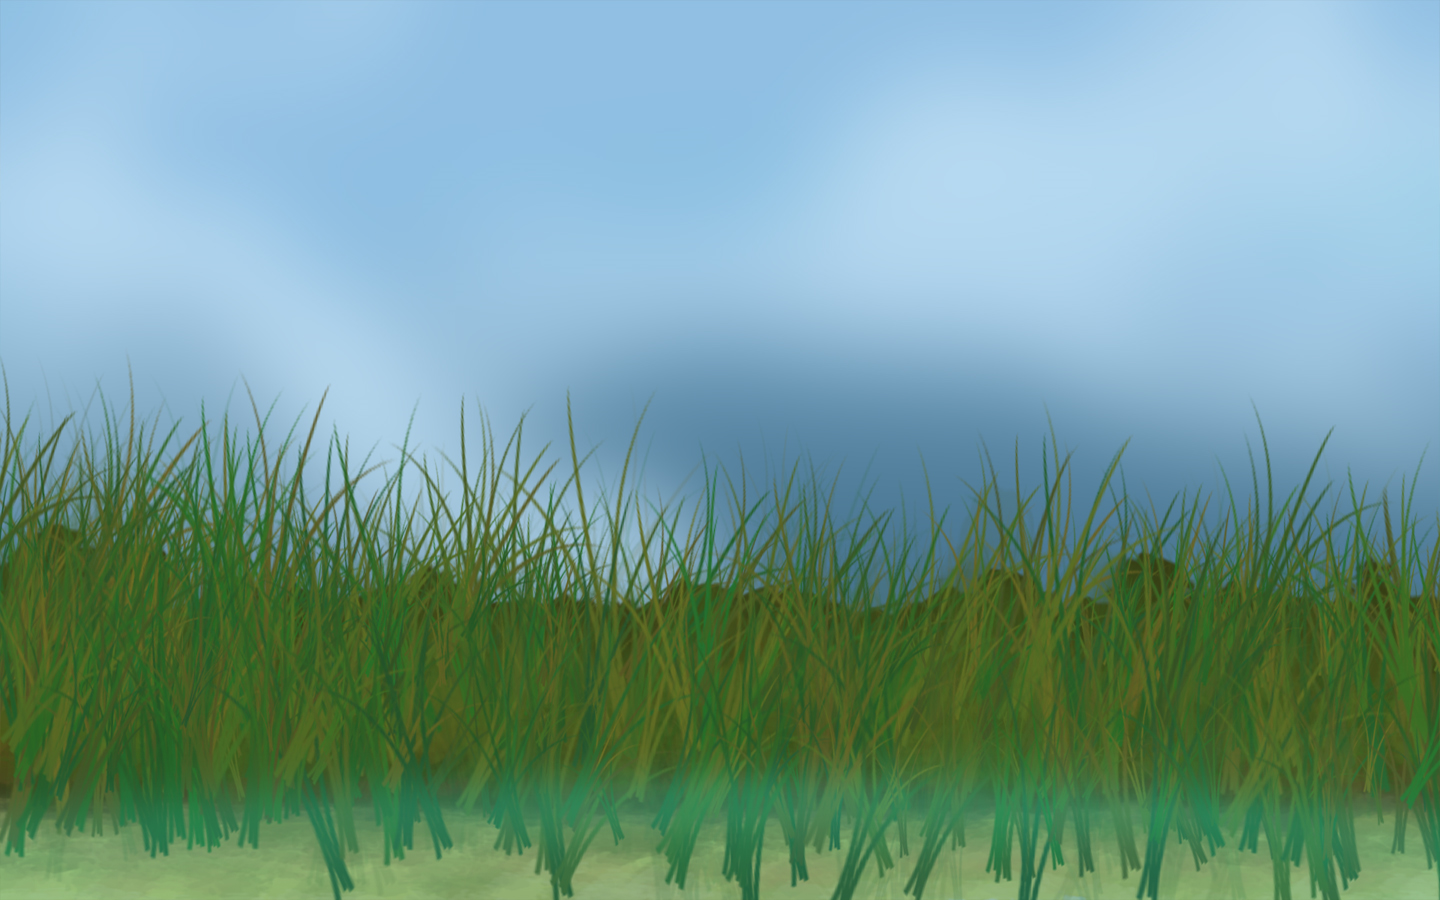
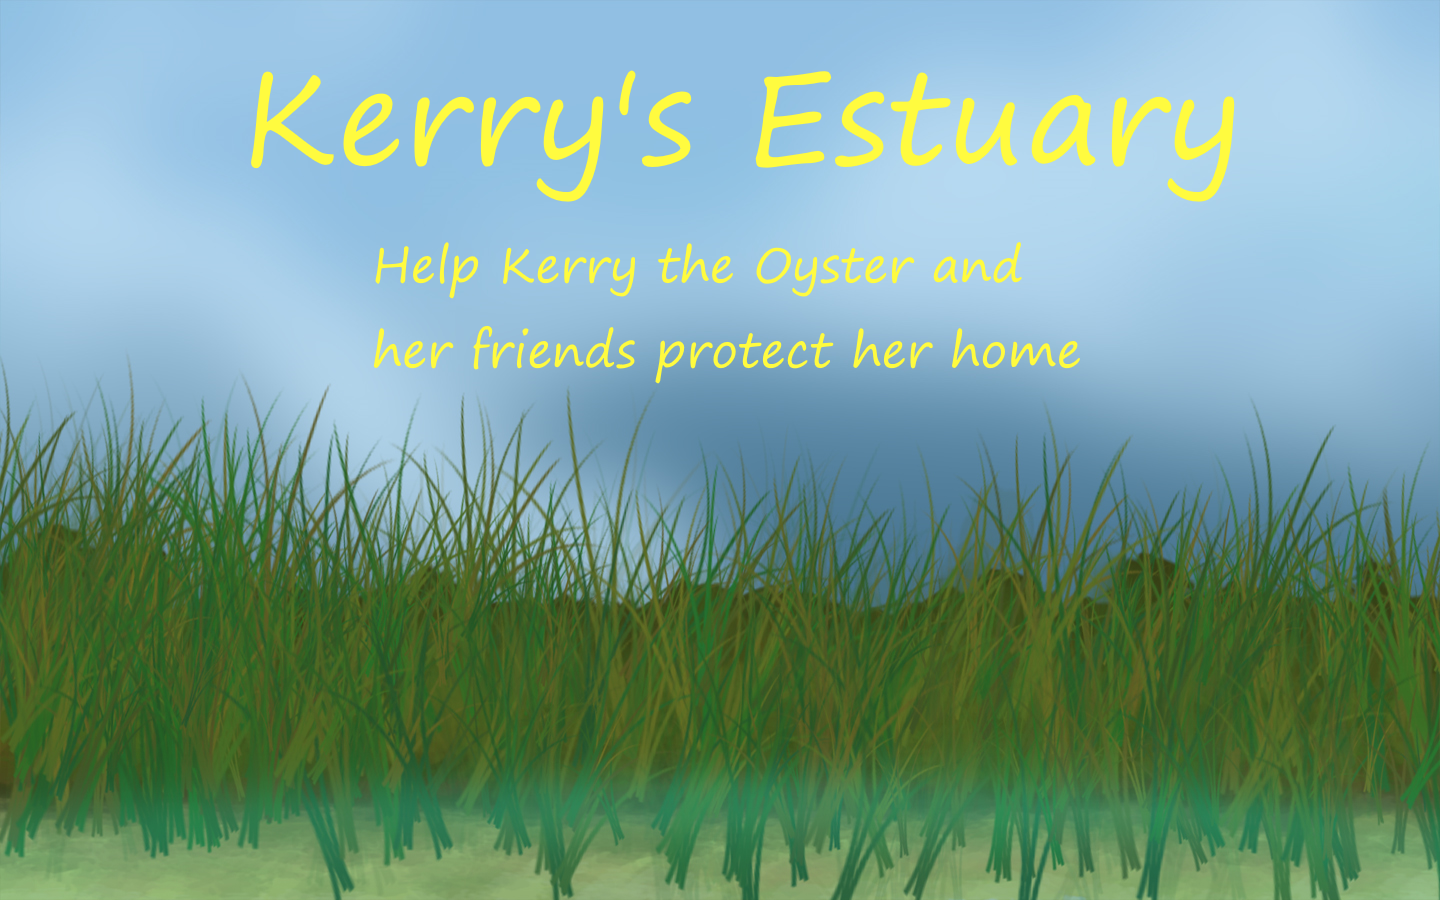
more updates

Changed region(s): [[0.1562, 0.0622, 0.875, 0.2489], [0.25, 0.3733, 0.75, 0.4356], [0.25, 0.28, 0.7188, 0.3422]]

diff --git a/src/model/grid/Grid.java b/src/model/grid/Grid.java
@@ -476,7 +476,7 @@ public class Grid extends Component {
 	public void draw(Graphics g){
 		
 		boolean messageA = false;
-		String message1="Red towers pick up pollution.";
+		String message1="Red towers pick up pollution. Left is recycling, right is garbage.";
 		String message2="Blue towers pick up oyster shells.";
 		String message3="Green towers pick up invasive species.";
 		boolean messageB = false;
@@ -532,7 +532,7 @@ public class Grid extends Component {
 				isHorizontal = true;
 				break;
 			case CLICK_ITEM:
-				message = "Items can only be dragged within the tower's range.";
+				message = "Items can only be dragged within the tower's range. Drag the trash to the trash can.";
 				break;
 			case CLICK_TOWER:
 				message = "Welcome to our tutorial!";

diff --git a/src/model/drawing/Animation.java b/src/model/drawing/Animation.java
@@ -232,6 +232,7 @@ public class Animation {
 		insertTowerImage("images/pollutant_tower6.png", "pollutant_tower6");
 		insertTowerImage("images/pollutant_tower7.png", "pollutant_tower7");
 		insertScreenImage("images/bcg.png", "bcg");
+		insertScreenImage("images/end.png", "end");
 		insertTowerImage("images/BlueTowerIcon.png", "BlueTowerIcon");
 		insertTowerImage("images/RedTowerIcon.png", "RedTowerIcon");
 		insertTowerImage("images/GreenTowerIcon.png", "GreenTowerIcon");
